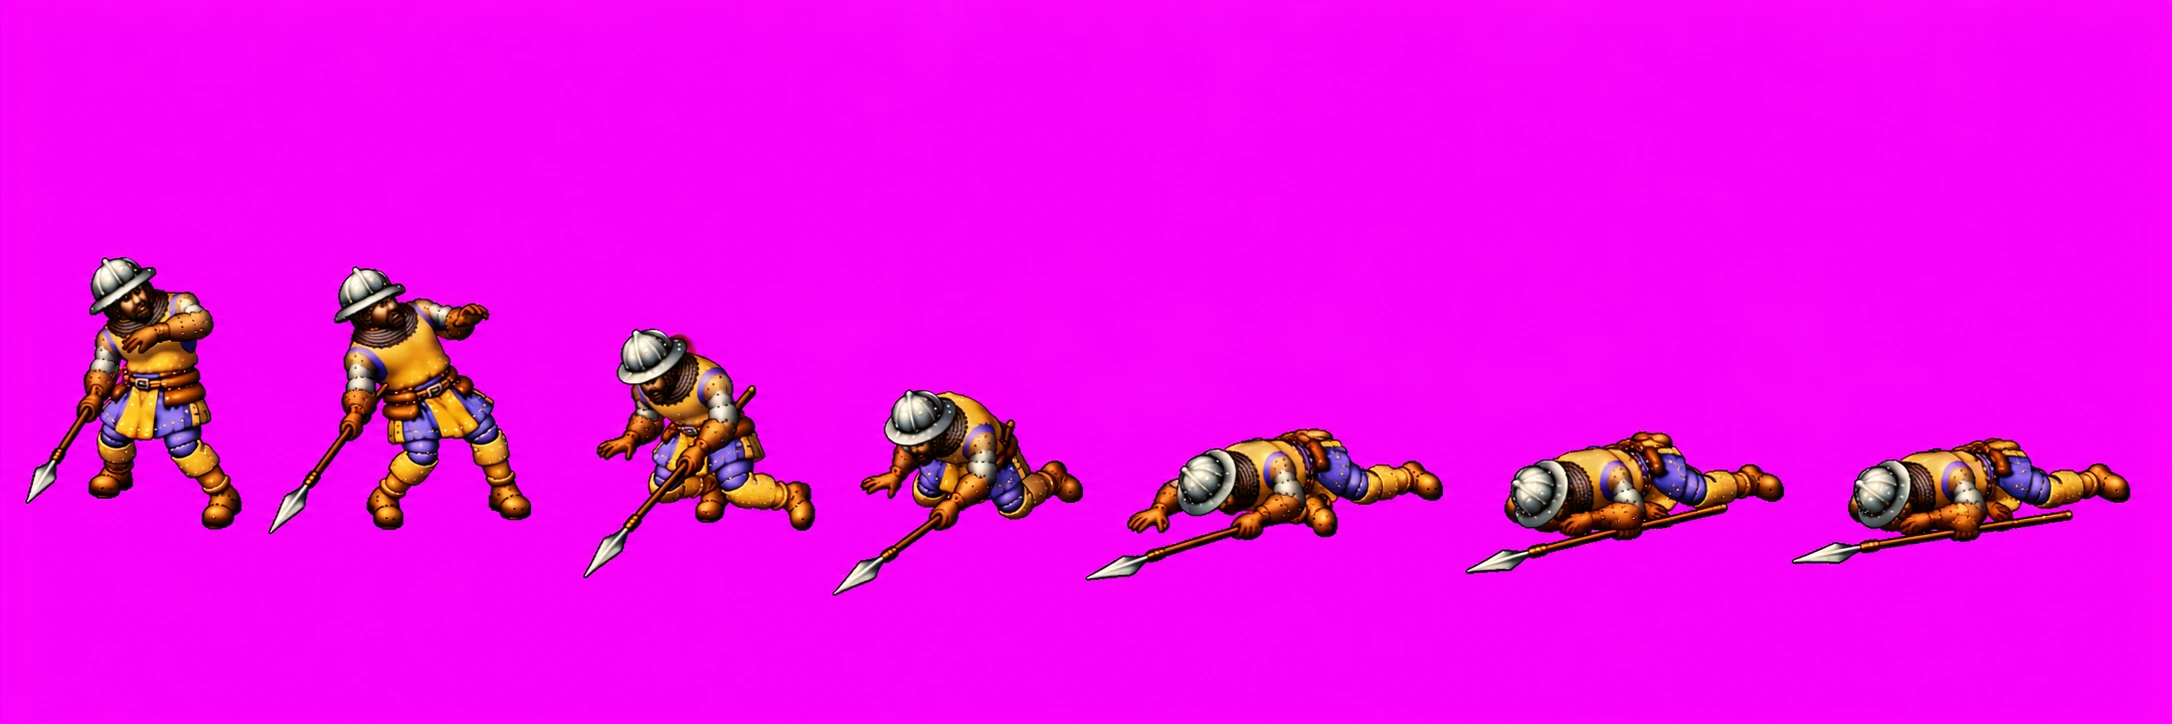
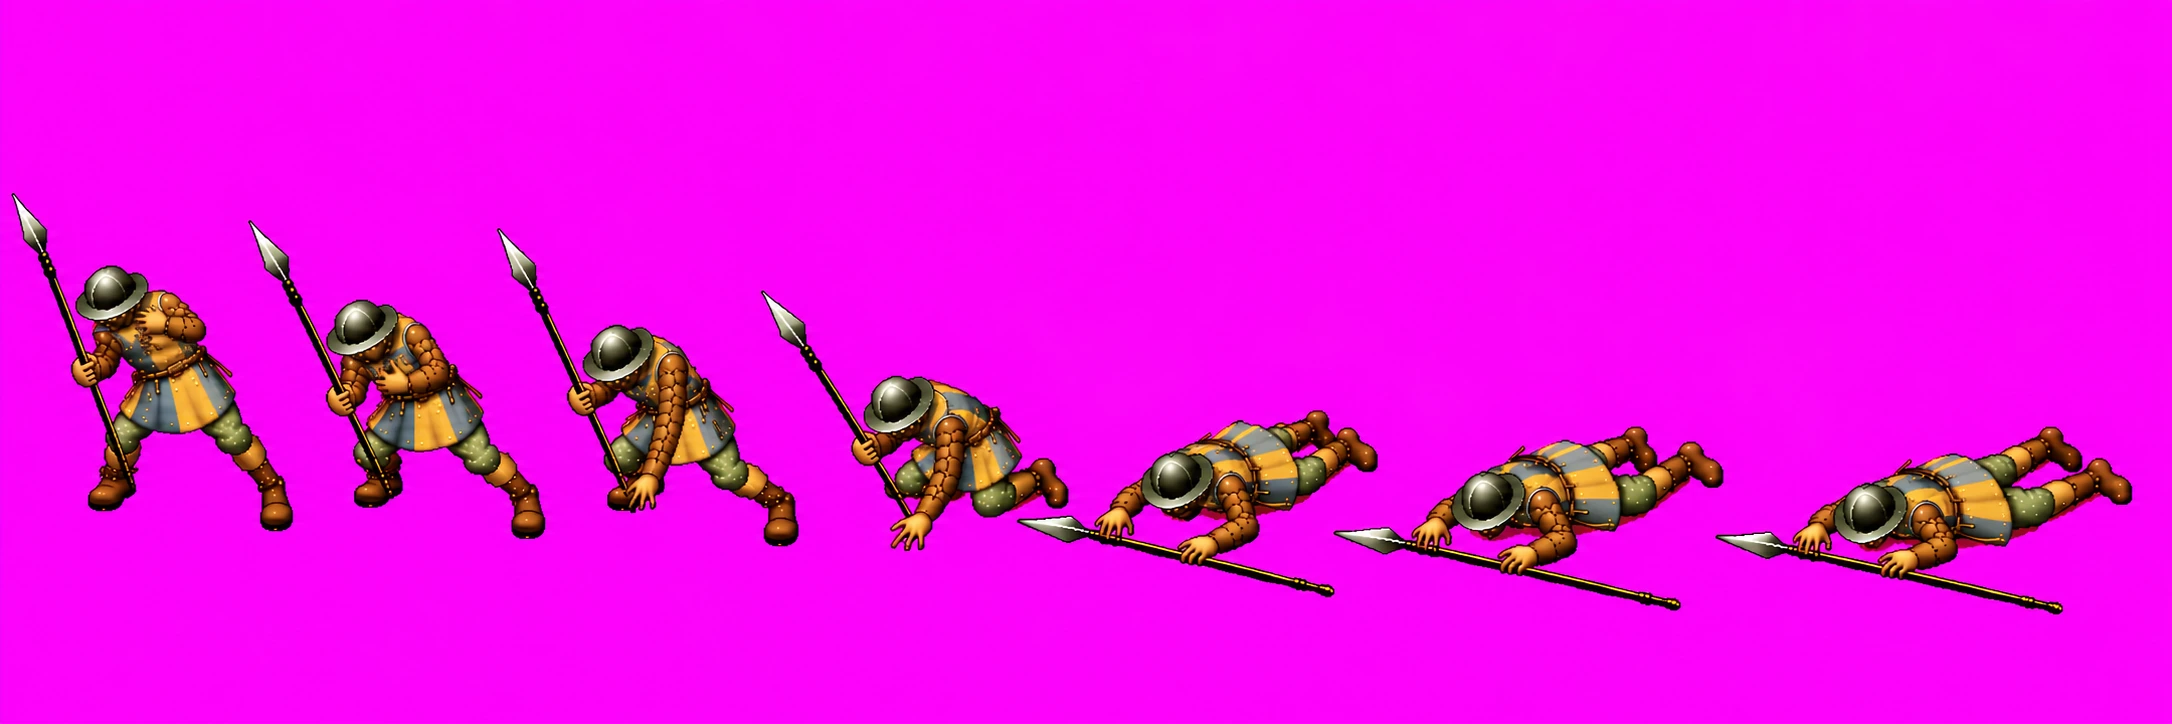
Vallen ZW van de speerman in de stijl van vel 1; beelden die elkaar alleen met iets dunnes raken, op hun lijven gescheiden
De liggende beelden van het nieuwe vel 19 raken elkaar met een speerpunt en een hand, en staan steeds verder uit
elkaar: met gelijke vakken kreeg beeld 5 het hoofd van beeld 6. beeldenVan kijkt nu eerst of de lijven (de voorgrond
zonder staal en zonder wat dun is) als groepen los staan, en geeft dan elk stuk aan de groep van zijn lijf. Alle andere
vellen blijven pixel voor pixel hetzelfde (nagemeten).

Changed region(s): [[0.0, 0.2735, 0.9871, 0.8508]]

diff --git a/beelden/beschrijving.js b/beelden/beschrijving.js
@@ -613,11 +613,11 @@
        "fps": 8,
        "herhaal": false,
        "cel": [
-        122,
-        112
+        125,
+        107
        ],
        "anker": [
-        56,
+        59,
         98
        ]
       }

diff --git a/ontwerp/werklijst.md b/ontwerp/werklijst.md
@@ -32,7 +32,7 @@ de pijplijn van vraag 180 (Q, f; niet in de cloud). **Bezig in sessie `lokaal-da
 **nieuwe weg** (Marcel, 21 okt: "Ok, dan zullen we moeten inventariseren welke gebouwen en poppetjes we nodig hebben. Dan
 kunnen we de andere generator deze 1 voor 1 laten maken. Jij moet dan zorgen dat ze passend worden in het spel"): de
 generator van zijn plaat maakt de bron, wij maken het passend; eerst de inventaris (`beelden-van-de-generator.md`). De
-speerman staat en loopt in het spel in acht richtingen (21 okt, de masterprompt); de aanval in alle acht richtingen en alle 25 vellen staan erin, lopen O, W en NO opnieuw met bewegende benen en de bouw van vel 1, aanvallen O, ZW en NO opnieuw zodat de punt op spelafstand het lijf raakt (22 okt; de speer steekt opzij van ernaast, verder van twee tegels, `steekReik`), en alle aanvallen in de stijl van vel 1; **wacht op Marcel**: vallen 19, 20 en 22 tot 25 in de stijl van vel 1 (18 en 21 zijn binnen), `beelden-van-de-generator.md` (in
+speerman staat en loopt in het spel in acht richtingen (21 okt, de masterprompt); de aanval in alle acht richtingen en alle 25 vellen staan erin, lopen O, W en NO opnieuw met bewegende benen en de bouw van vel 1, aanvallen O, ZW en NO opnieuw zodat de punt op spelafstand het lijf raakt (22 okt; de speer steekt opzij van ernaast, verder van twee tegels, `steekReik`), en alle aanvallen in de stijl van vel 1; **wacht op Marcel**: vallen 20 en 22 tot 25 in de stijl van vel 1 (18, 19 en 21 zijn binnen), `beelden-van-de-generator.md` (in
 het nieuwe gesprek, `beelden-van-de-generator.md`), en eventueel 3 en 4 opnieuw (de punt naar achteren).
 
 **Marcels acht punten van 20 okt** (R, vraag 182 tot 189: egaliseren met de schop, de maat van de huizen, dragers, een

diff --git a/ontwerp/code.md b/ontwerp/code.md
@@ -1216,8 +1216,9 @@ de browser en in de Node-tests werkt. De volgorde van de scripts in `index.html`
 - **De beelden van de generator** (21 okt; `beelden-van-de-generator.md`): `gereedschap/pixelart/generator.cjs` maakt een
   vel van de generator (een rij poppetjes op magenta, `gereedschap/pixelart/bron/<soort>/`, webp via de Python van ComfyUI
   naar png) passend: de achtergrond weg (`voorgrond`: magenta is waar rood en blauw ver boven groen liggen), de poppetjes
-  los (`beeldenVan`: staan ze los van elkaar, dan elke groep grote stukken een beeld, `losseBeelden`; anders per stuk het
-  dichtste midden van gelijke vakken in de rij; een klein stukje bij het dichtste grote stuk; een stuk over
+  los (`beeldenVan`: staan ze los van elkaar, dan elke groep grote stukken een beeld, `losseBeelden`; raken ze elkaar
+  alleen met iets dunnes, dan de groepen van hun lijven (de voorgrond zonder staal en zonder wat dun is); anders per stuk
+  het dichtste midden van gelijke vakken in de rij; een klein stukje bij het dichtste grote stuk; een stuk over
   meer middens: `toewijzing` vooraf, de kernen van de lijven (zonder het staal) naar hun midden en groeiend over wat dik
   is, en elk dun stuk dat overblijft, zoals een schacht met zijn punt, bij het beeld waar het met zijn gekleurde pixels
   het langst aan grenst: de schacht zit in de handen van zijn man, de punt raakt de buurman alleen met staal), het anker (opzij de romp, hoofd en schouders, in elk

diff --git a/ontwerp/beelden-van-de-generator.md b/ontwerp/beelden-van-de-generator.md
@@ -406,7 +406,10 @@ generator van 1,7 MB; op spelmaat is het verschil ruis) en lopen in het spel. Wa
   frames [...]": de punt op (7, -119) tegen (0, -104) op twee tegels. Alle acht aanvallen zijn nu in de stijl van vel 1.
 - **De stijl van vallen** (22 okt): met "redo 18: keep the fall of your last version [...] exactly, but draw him with
   exactly the style and proportions of the attached sheet 1 [...]". Vallen Z kwam zo in de goede stijl, maar houdt de
-  speer in beeld 1 tot 4 nu rechtop in zijn linkerhand (bij aanvallen Z wijst hij naar rechtsonder).
+  speer in beeld 1 tot 4 nu rechtop in zijn linkerhand (bij aanvallen Z wijst hij naar rechtsonder). Vallen ZW ook,
+  met de speer in het begin naar linksboven; daar raakten de liggende beelden elkaar met punt en hand en stonden ze
+  steeds verder uit elkaar, zodat beeld 5 het hoofd van beeld 6 kreeg. `beeldenVan` kijkt nu eerst of de lijven (zonder
+  het staal en wat dun is) los staan, en geeft dan elk stuk aan de groep van zijn lijf.
   Aanvallen ZW kwam eerst van opzij (als W) en met twee beelden tegen elkaar; goed met "redo 11 again: this is
   Attacking SW, not W. He faces south-west, down and to the left, TOWARDS the viewer at three-quarters [...] the spear
   [...] pointing down and to the left at about 30 degrees below horizontal [...] almost as far to the left of his body as
